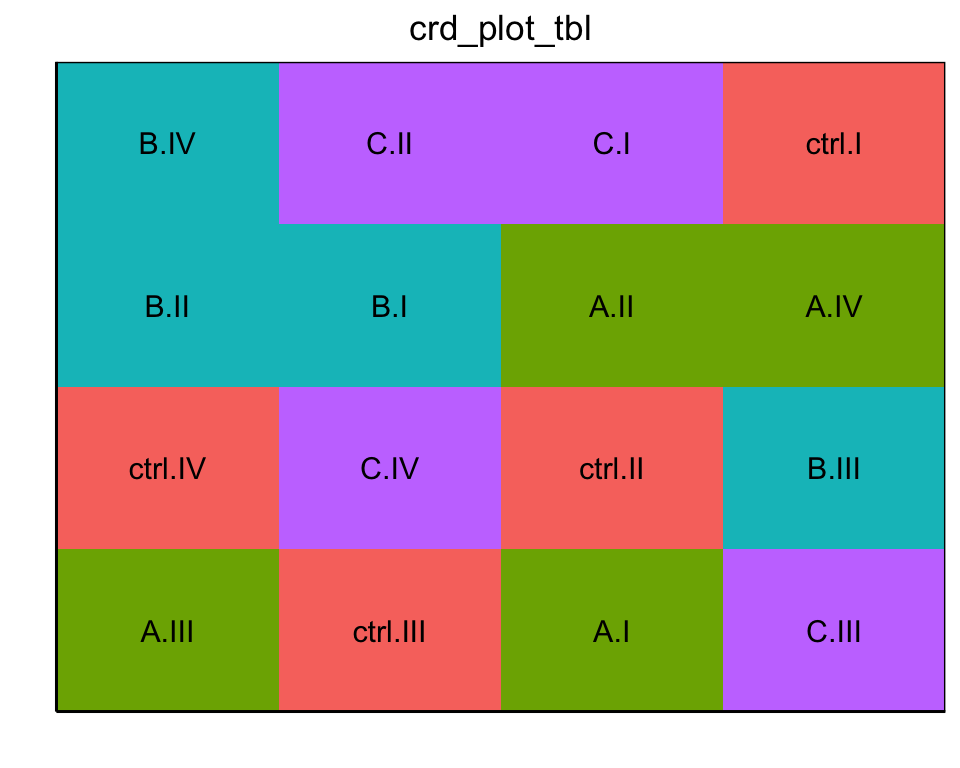
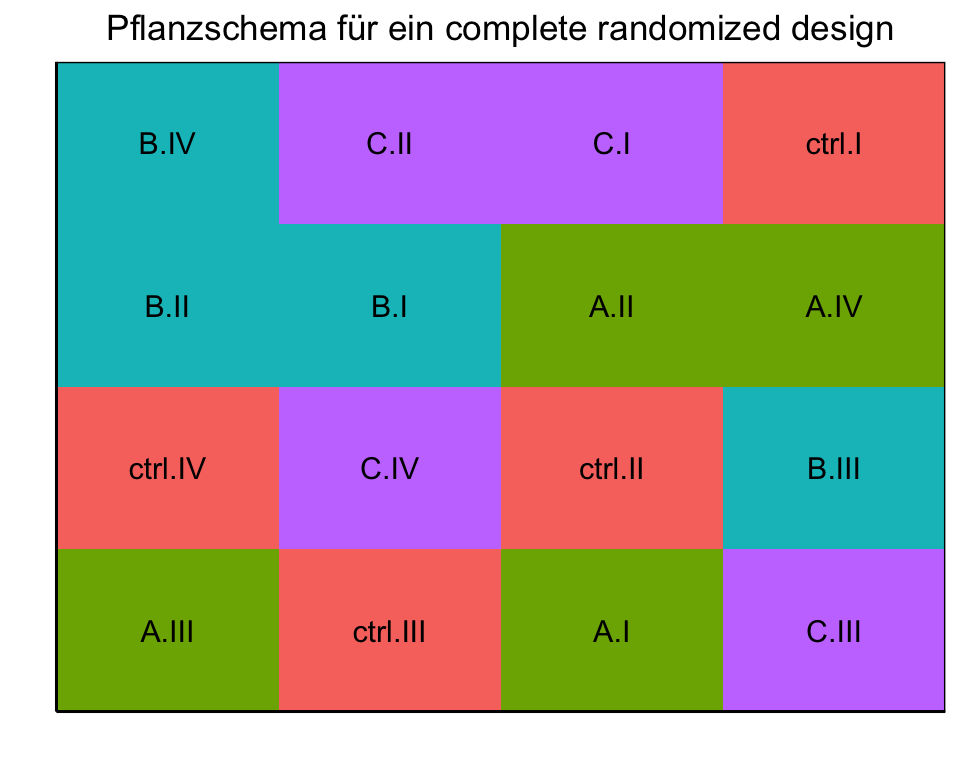
added text

Changed region(s): [[0.0938, 0.0, 0.9375, 0.0625]]

diff --git a/docs/experimental-design-basic.html b/docs/experimental-design-basic.html
@@ -672,7 +672,7 @@ pre > code.sourceCode > span > a:first-child::before { text-decoration: underlin
   </div>
   
 
-</header><p><em>Version vom August 13, 2023 um 20:08:19</em></p>
+</header><p><em>Version vom August 13, 2023 um 20:13:57</em></p>
 <div class="quarto-figure quarto-figure-center">
 <figure class="figure"><p><img src="images/caution.png" class="img-fluid figure-img" style="width:50.0%"></p>
 </figure>
@@ -781,11 +781,13 @@ drymatter \sim \overbrace{trt}^{f_1}
 <div class="cell" data-layout-align="center">
 <div class="sourceCode" id="cb7"><pre class="downlit sourceCode r code-with-copy"><code class="sourceCode R"><span><span class="fu">ggdesplot</span><span class="op">(</span>data <span class="op">=</span> <span class="va">crd_plot_tbl</span>, </span>
 <span>          form <span class="op">=</span> <span class="va">trt</span> <span class="op">~</span> <span class="va">col</span> <span class="op">+</span> <span class="va">row</span>,</span>
-<span>          text <span class="op">=</span> <span class="va">trt_rep</span>, cex <span class="op">=</span> <span class="fl">1</span>, show.key <span class="op">=</span> <span class="cn">FALSE</span>, shorten <span class="op">=</span> <span class="st">"no"</span>, flip <span class="op">=</span> <span class="cn">TRUE</span><span class="op">)</span></span></code><button title="In die Zwischenablage kopieren" class="code-copy-button"><i class="bi"></i></button></pre></div>
+<span>          text <span class="op">=</span> <span class="va">trt_rep</span>, cex <span class="op">=</span> <span class="fl">1</span>, show.key <span class="op">=</span> <span class="cn">FALSE</span>, </span>
+<span>          shorten <span class="op">=</span> <span class="st">"no"</span>, flip <span class="op">=</span> <span class="cn">TRUE</span>,</span>
+<span>          main <span class="op">=</span> <span class="st">"Pflanzschema für ein complete randomized design"</span><span class="op">)</span></span></code><button title="In die Zwischenablage kopieren" class="code-copy-button"><i class="bi"></i></button></pre></div>
 <div class="cell-output-display">
 <div id="fig-exp-basic-1" class="quarto-figure quarto-figure-center anchored">
 <figure class="figure"><p><img src="experimental-design-basic_files/figure-html/fig-exp-basic-1-1.png" class="img-fluid figure-img" width="480"></p>
-<figcaption class="figure-caption">Abbildung&nbsp;56.1— Schema der Behandlungen nach dem <em>complete randomized design</em> .</figcaption></figure>
+<figcaption class="figure-caption">Abbildung&nbsp;56.1— Schema der Pflanzungen nach den Behandlungen für das <em>complete randomized design</em>.</figcaption></figure>
 </div>
 </div>
 </div>
@@ -801,32 +803,33 @@ drymatter \sim \overbrace{trt}^{f_1}
 <div class="sourceCode" id="cb9"><pre class="downlit sourceCode r code-with-copy"><code class="sourceCode R"><span><span class="va">crd_book_tbl</span> <span class="op">&lt;-</span> <span class="va">crd_obj</span> <span class="op">%&gt;%</span> </span>
 <span>  <span class="fu">pluck</span><span class="op">(</span><span class="st">"book"</span><span class="op">)</span> <span class="op">%&gt;%</span> </span>
 <span>  <span class="fu">as_tibble</span><span class="op">(</span><span class="op">)</span> <span class="op">%&gt;%</span> </span>
-<span>  <span class="fu">set_names</span><span class="op">(</span><span class="fu"><a href="https://rdrr.io/r/base/c.html">c</a></span><span class="op">(</span><span class="st">"plots"</span>, <span class="st">"r"</span>, <span class="st">"trt"</span><span class="op">)</span><span class="op">)</span></span>
+<span>  <span class="fu">set_names</span><span class="op">(</span><span class="fu"><a href="https://rdrr.io/r/base/c.html">c</a></span><span class="op">(</span><span class="st">"plots"</span>, <span class="st">"r"</span>, <span class="st">"trt"</span><span class="op">)</span><span class="op">)</span> <span class="op">%&gt;%</span> </span>
+<span>  <span class="fu">mutate</span><span class="op">(</span>trt_rep <span class="op">=</span> <span class="fu">str_c</span><span class="op">(</span><span class="va">trt</span>, <span class="st">"."</span>, <span class="va">r</span><span class="op">)</span><span class="op">)</span></span>
 <span><span class="va">crd_book_tbl</span></span></code><button title="In die Zwischenablage kopieren" class="code-copy-button"><i class="bi"></i></button></pre></div>
 <div class="cell-output cell-output-stdout">
-<pre><code># A tibble: 20 × 3
-   plots     r trt  
-   &lt;dbl&gt; &lt;int&gt; &lt;chr&gt;
- 1   101     1 ctrl 
- 2   102     1 C    
- 3   103     2 C    
- 4   104     2 ctrl 
- 5   105     1 A    
- 6   106     1 B    
- 7   107     3 ctrl 
- 8   108     2 A    
- 9   109     3 C    
-10   110     3 A    
-11   111     4 A    
-12   112     4 C    
-13   113     2 B    
-14   114     5 C    
-15   115     4 ctrl 
-16   116     5 ctrl 
-17   117     3 B    
-18   118     5 A    
-19   119     4 B    
-20   120     5 B    </code></pre>
+<pre><code># A tibble: 20 × 4
+   plots     r trt   trt_rep
+   &lt;dbl&gt; &lt;int&gt; &lt;chr&gt; &lt;chr&gt;  
+ 1   101     1 ctrl  ctrl.1 
+ 2   102     1 C     C.1    
+ 3   103     2 C     C.2    
+ 4   104     2 ctrl  ctrl.2 
+ 5   105     1 A     A.1    
+ 6   106     1 B     B.1    
+ 7   107     3 ctrl  ctrl.3 
+ 8   108     2 A     A.2    
+ 9   109     3 C     C.3    
+10   110     3 A     A.3    
+11   111     4 A     A.4    
+12   112     4 C     C.4    
+13   113     2 B     B.2    
+14   114     5 C     C.5    
+15   115     4 ctrl  ctrl.4 
+16   116     5 ctrl  ctrl.5 
+17   117     3 B     B.3    
+18   118     5 A     A.5    
+19   119     4 B     B.4    
+20   120     5 B     B.5    </code></pre>
 </div>
 </div>
 <div class="cell">
@@ -836,14 +839,14 @@ drymatter \sim \overbrace{trt}^{f_1}
 </div>
 <div class="cell" data-layout-align="center">
 <div class="sourceCode" id="cb12"><pre class="downlit sourceCode r code-with-copy"><code class="sourceCode R"><span><span class="fu">desplot</span><span class="op">(</span><span class="va">trt</span> <span class="op">~</span> <span class="va">rows</span> <span class="op">+</span> <span class="va">cols</span>, flip <span class="op">=</span> <span class="cn">TRUE</span>,</span>
-<span>        text <span class="op">=</span> <span class="va">trt</span>, cex <span class="op">=</span> <span class="fl">1</span>, shorten <span class="op">=</span> <span class="st">"no"</span>,</span>
+<span>        text <span class="op">=</span> <span class="va">trt_rep</span>, cex <span class="op">=</span> <span class="fl">1</span>, shorten <span class="op">=</span> <span class="st">"no"</span>,</span>
 <span>        data <span class="op">=</span> <span class="va">crd_plot_tbl</span>,</span>
-<span>        main <span class="op">=</span> <span class="st">"Complete randomized design (CRD)"</span>, </span>
+<span>        main <span class="op">=</span> <span class="st">"Pflanzschema für ein complete randomized design"</span>, </span>
 <span>        show.key <span class="op">=</span> <span class="cn">FALSE</span><span class="op">)</span></span></code><button title="In die Zwischenablage kopieren" class="code-copy-button"><i class="bi"></i></button></pre></div>
 <div class="cell-output-display">
 <div id="fig-exp-basic-2" class="quarto-figure quarto-figure-center anchored">
 <figure class="figure"><p><img src="experimental-design-basic_files/figure-html/fig-exp-basic-2-1.png" class="img-fluid figure-img" width="480"></p>
-<figcaption class="figure-caption">Abbildung&nbsp;56.2— foo.</figcaption></figure>
+<figcaption class="figure-caption">Abbildung&nbsp;56.2— Schema der Pflanzungen nach den Behandlungen für das <em>complete randomized design</em>.</figcaption></figure>
 </div>
 </div>
 </div>
